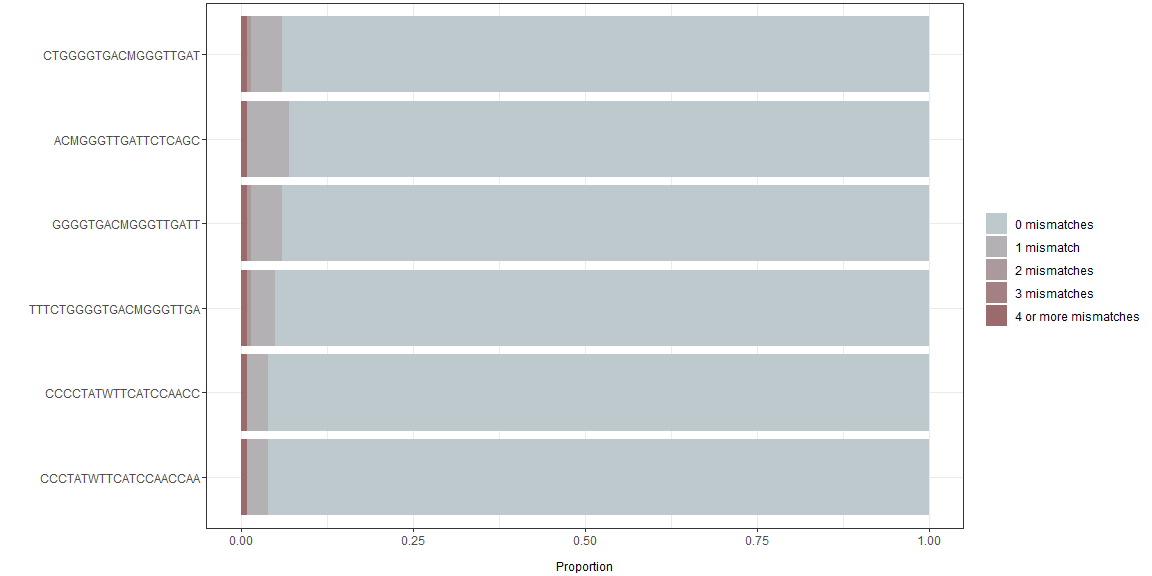
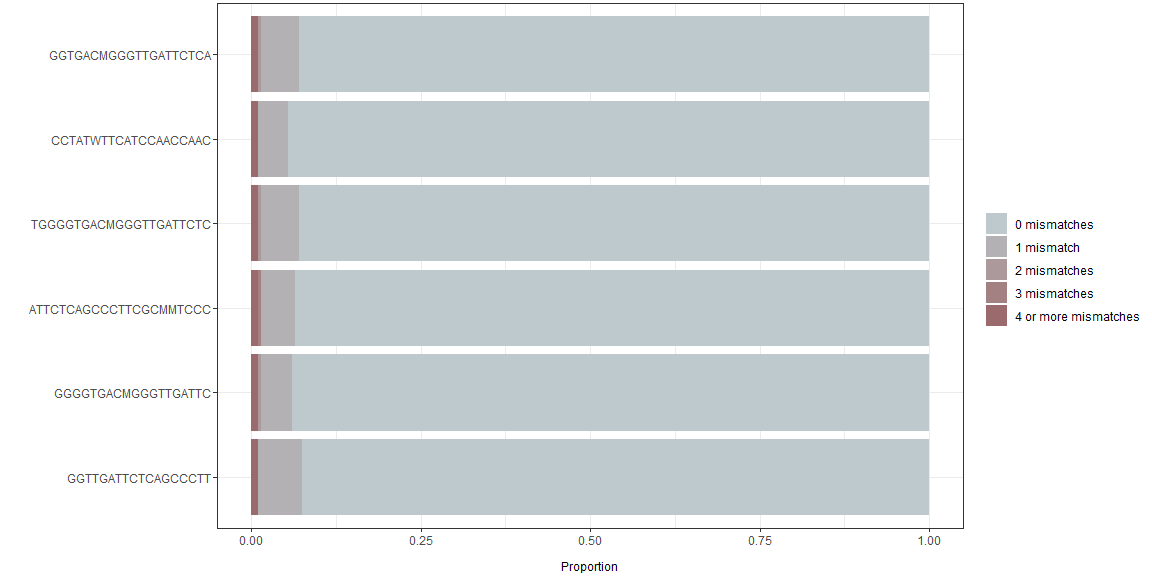
readme

Changed region(s): [[0.0312, 0.0312, 0.25, 0.9062], [0.4688, 0.9062, 0.5312, 1.0], [0.3438, 0.9062, 0.375, 0.9688]]

diff --git a/README.md b/README.md
@@ -175,14 +175,14 @@ matchTableOligos <- checkMatch(myOligos[selection, ], target = myAlignment)
 
 Results:
 
-| iupacSequence         | perfectMatch | idPerfectMatch | oneMismatch | idOneMismatch | twoMismatches | idTwoMismatches | threeMismatches | idThreeMismatches | fourOrMoreMismatches | idFourOrMoreMismatches |
-| :-------------------- | -----------: | :------------- | ----------: | :------------ | ------------: | :-------------- | --------------: | :---------------- | -------------------: | :--------------------- |
-| CTGGGGTGACMGGGTTGAT   |         0.94 | M73218.1….     |        0.04 | AB222183….    |             0 | JQ953665.1      |               0 |                   |                 0.01 | MN614142….             |
-| ACMGGGTTGATTCTCAGC    |         0.93 | M73218.1….     |        0.06 | AB222183….    |             0 |                 |               0 |                   |                 0.01 | MN614142….             |
-| GGGGTGACMGGGTTGATT    |         0.94 | M73218.1….     |        0.04 | AB222183….    |             0 | JQ953665.1      |               0 |                   |                 0.01 | MN614142….             |
-| TTTCTGGGGTGACMGGGTTGA |         0.95 | M73218.1….     |        0.04 | AB222183….    |             0 | JQ953665.1      |               0 |                   |                 0.01 | MN614142….             |
-| CCCCTATWTTCATCCAACC   |         0.96 | M73218.1….     |        0.03 | AY575857….    |             0 |                 |               0 |                   |                 0.01 | MN614142….             |
-| CCCTATWTTCATCCAACCAA  |         0.96 | M73218.1….     |        0.03 | AY575857….    |             0 |                 |               0 |                   |                 0.01 | MN614142….             |
+| iupacSequence          | perfectMatch | idPerfectMatch | oneMismatch | idOneMismatch | twoMismatches | idTwoMismatches | threeMismatches | idThreeMismatches | fourOrMoreMismatches | idFourOrMoreMismatches |
+| :--------------------- | -----------: | :------------- | ----------: | :------------ | ------------: | :-------------- | --------------: | :---------------- | -------------------: | :--------------------- |
+| GGTGACMGGGTTGATTCTCA   |         0.93 | M73218.1….     |        0.06 | AB222183….    |             0 | JQ953665.1      |               0 |                   |                 0.01 | MN614142….             |
+| CCTATWTTCATCCAACCAAC   |         0.94 | M73218.1….     |        0.04 | AY575857….    |             0 |                 |               0 |                   |                 0.01 | MN614142….             |
+| TGGGGTGACMGGGTTGATTCTC |         0.93 | M73218.1….     |        0.06 | AB222183….    |             0 | JQ953665.1      |               0 |                   |                 0.01 | MN614142….             |
+| ATTCTCAGCCCTTCGCMMTCCC |         0.94 | M73218.1….     |        0.05 | AB222183….    |             0 |                 |               0 | JF443725.1        |                 0.01 | MN614142….             |
+| GGGGTGACMGGGTTGATTC    |         0.94 | M73218.1….     |        0.04 | AB222183….    |             0 | JQ953665.1      |               0 |                   |                 0.01 | MN614142….             |
+| GGTTGATTCTCAGCCCTT     |         0.92 | M73218.1….     |        0.06 | AB222183….    |             0 |                 |               0 |                   |                 0.01 | MN614142….             |
 
 The match table can be visualized using `plotData()`:
 
